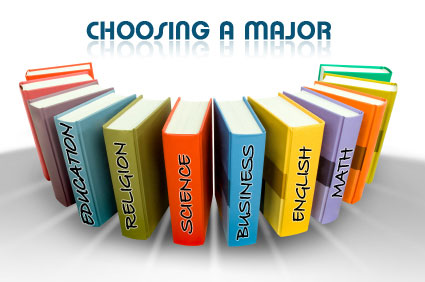
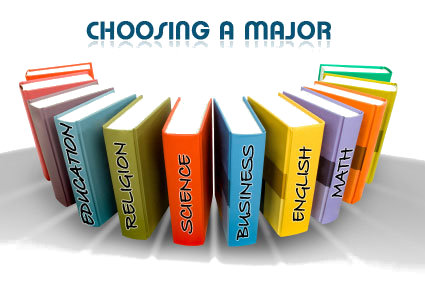
working on aligning personality type in top right
git-svn-id: http://24-hours-good-achieve-mbti.googlecode.com/svn/trunk@53 75e45897-a8af-4d69-cf30-fb7e5db3fcbb

diff --git a/war/stylesheets/results.css b/war/stylesheets/results.css
@@ -3,6 +3,9 @@ body {
 	margin: 0 auto;
 	width: 65%;
 	min-width: 940px;
+}
+
+.dark {
 	background-color: #E8E8E8;
 }
 
@@ -10,26 +13,18 @@ body {
 	box-shadow: 0 0 4px 2px #60B0FF;
 }
 
-h2 {
+h1 {
+	float: left;
+}
+
+h1, h2 {
 	font-family: Ubuntu, Helvetica, Arial, sans-serif;
-	font-size: 20px;
 	
 	margin-bottom: 0;
 }
 
-.line {
-	display: block;
-	padding: 0;
-	margin: 0;
-	width: 730px;
-}
-
-#majorsline {
-	box-shadow: 0 0 4px 2px #FF6103;
-}
-
-ul {
-	list-style-type: none;	
+h2 {
+	font-size: 20px;
 }
 
 li {
@@ -38,3 +33,50 @@ li {
 	
 	font-size: 16px;
 }
+
+.light {
+	background-color: #F0F0F0;	
+}
+
+.line {
+	display: block;
+	padding: 0;
+	margin: 0;
+	z-index: 3;
+}
+
+.line, .container {
+	width: 730px;
+}
+
+#majorsline, #nextstepsline {
+	box-shadow: 0 0 4px 2px #FF6103;
+}
+
+#nextstepstext {
+	margin: 4px 0 0 20px;
+}
+#nextsteps p {
+	margin: 0;
+	padding: 5px 0 5px 0;
+}
+
+#personality {
+	float: right;
+	margin-right: 100px;
+}
+
+#personalitytype {
+	overflow: auto;
+}
+
+span {
+	font-weight: 600;
+}
+
+ul {
+	list-style-type: none;
+	padding: 0 0 0 20px;
+	margin: 4px 0 0 0;
+}
+

diff --git a/war/index.html b/war/index.html
@@ -80,6 +80,6 @@
         <div id="errormessage"></div>
       </form>
     </div>
-    <img src="/images/choosing_major.jpg" alt="Choosing Majors" >
+    <img src="/images/choosing_major_transparent.gif" alt="Choosing Majors" >
   </div>
 </body>

diff --git a/war/stylesheets/index.css b/war/stylesheets/index.css
@@ -60,6 +60,8 @@ h1, h2, #submit {
 
 img {
 	float: right;
+	margin: 50px 100px 0 0;
+	width: 400px;
 }
 
 .options {
